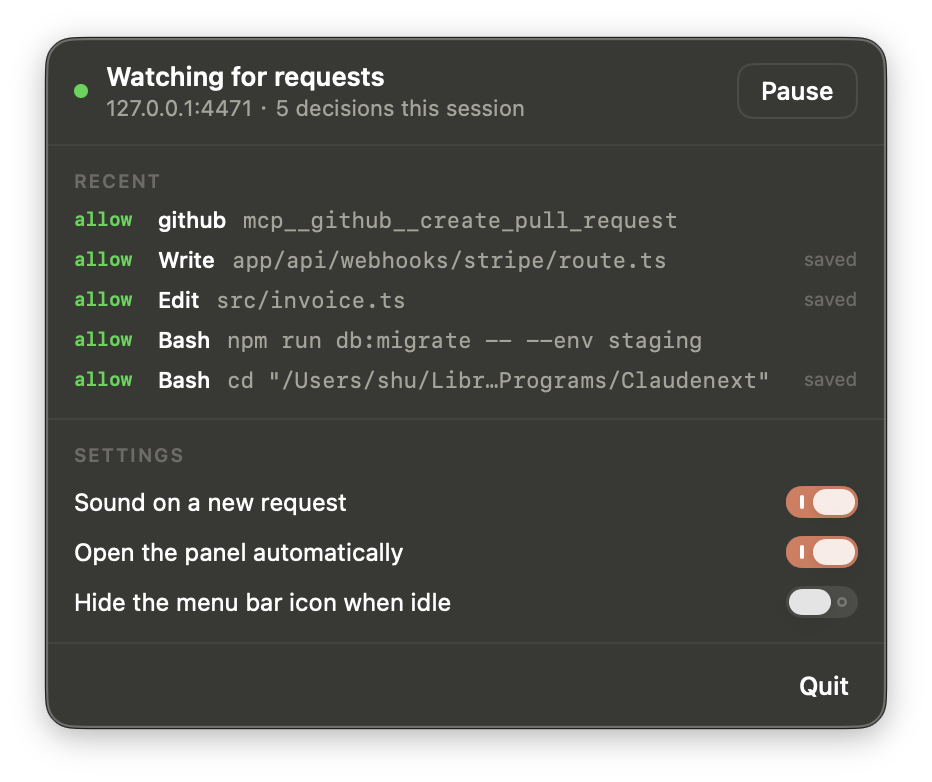
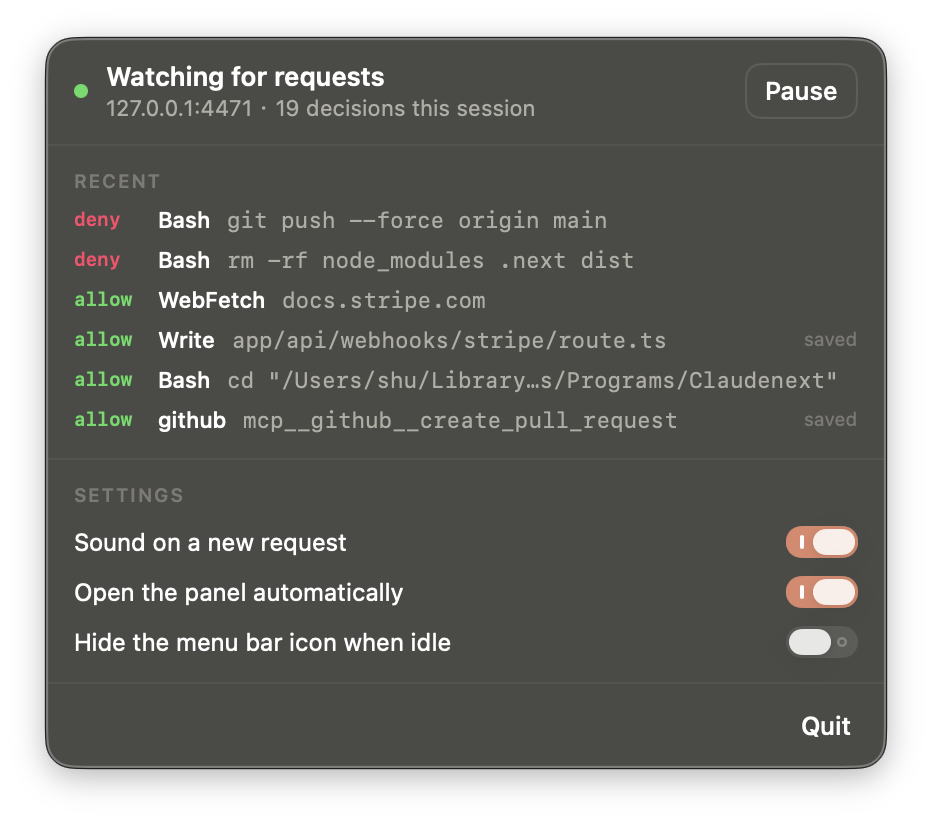
refresh the screenshots
the old ones predate two changes. the hero now shows the point directly: one
card offering all four buttons next to one that offers three, because a
command built from a file's contents has no rule worth remembering.

also swaps the mcp shot for one covering a folded file write and a
domain-scoped fetch, and the idle pair now has denials in it, not just
allows.

diff --git a/README.md b/README.md
@@ -18,16 +18,17 @@ without hunting for the right window. Sharing it in case you have the same
 problem.
 
 <p align="center">
-  <img src="docs/screenshots/stacked.png" width="470" alt="Four requests stacked in the panel: a Bash command, a file edit with a folded diff, and two more behind them.">
+  <img src="docs/screenshots/stacked.png" width="460" alt="Two stacked requests. The focused one offers Deny, Skip, Always allow and Allow; the one below it, running a command built from a file's contents, offers only Deny, Skip and Allow.">
 </p>
 
-Every waiting session, in one place. The card names the repo it came from —
-`acme-platform › services/billing-api` — because in a monorepo three different
-directories are all called `src`.
+Every waiting session in one place — and each card only offers what makes sense
+for it. The second one runs `curl "$(cat …)" | sh`, whose real command doesn't
+exist yet, so there's nothing honest to remember and **Always allow** simply
+isn't there.
 
 <p align="center">
-  <img src="docs/screenshots/mcp.png" width="420" alt="A single MCP request showing the tool's arguments as a field table, with Deny, Skip, Always allow and Allow.">
-  <img src="docs/screenshots/idle-dark.png" width="420" alt="The idle panel in dark mode, listing recent decisions above the settings.">
+  <img src="docs/screenshots/tools.png" width="440" alt="A file being created, its contents folded to two lines with a Show all link, above a web fetch whose rule would be scoped to the domain.">
+  <img src="docs/screenshots/idle-dark.png" width="440" alt="The idle panel in dark mode, listing recent allow and deny decisions above the settings.">
 </p>
 
 
@@ -79,8 +80,9 @@ keyboard; the rest wait their turn but you can click any of them. Long diffs
 fold up so the buttons stay reachable. Click away and nothing is lost — the
 request just parks, and the menu bar keeps a count.
 
-Each card tells you which repo it came from and where inside it, so two sessions
-editing `src/index.ts` in different projects don't look identical.
+Each card tells you which repo it came from and where inside it —
+`acme-platform › services/billing-api` — because in a monorepo three different
+directories are all called `src`.
 
 By default it won't pop open or steal your keyboard — the count and a short
 pulse are the whole notification. If you'd rather it opened itself, there's a
@@ -90,7 +92,7 @@ Click the menu bar icon any time to see what you've answered recently and flip
 those switches:
 
 <p align="center">
-  <img src="docs/screenshots/idle-light.png" width="420" alt="The idle panel: recent decisions, then three toggles for sound, opening automatically, and hiding the icon.">
+  <img src="docs/screenshots/idle-light.png" width="440" alt="The idle panel: recent decisions, then three toggles for sound, opening automatically, and hiding the icon.">
 </p>
 
 ### When you press Always allow
